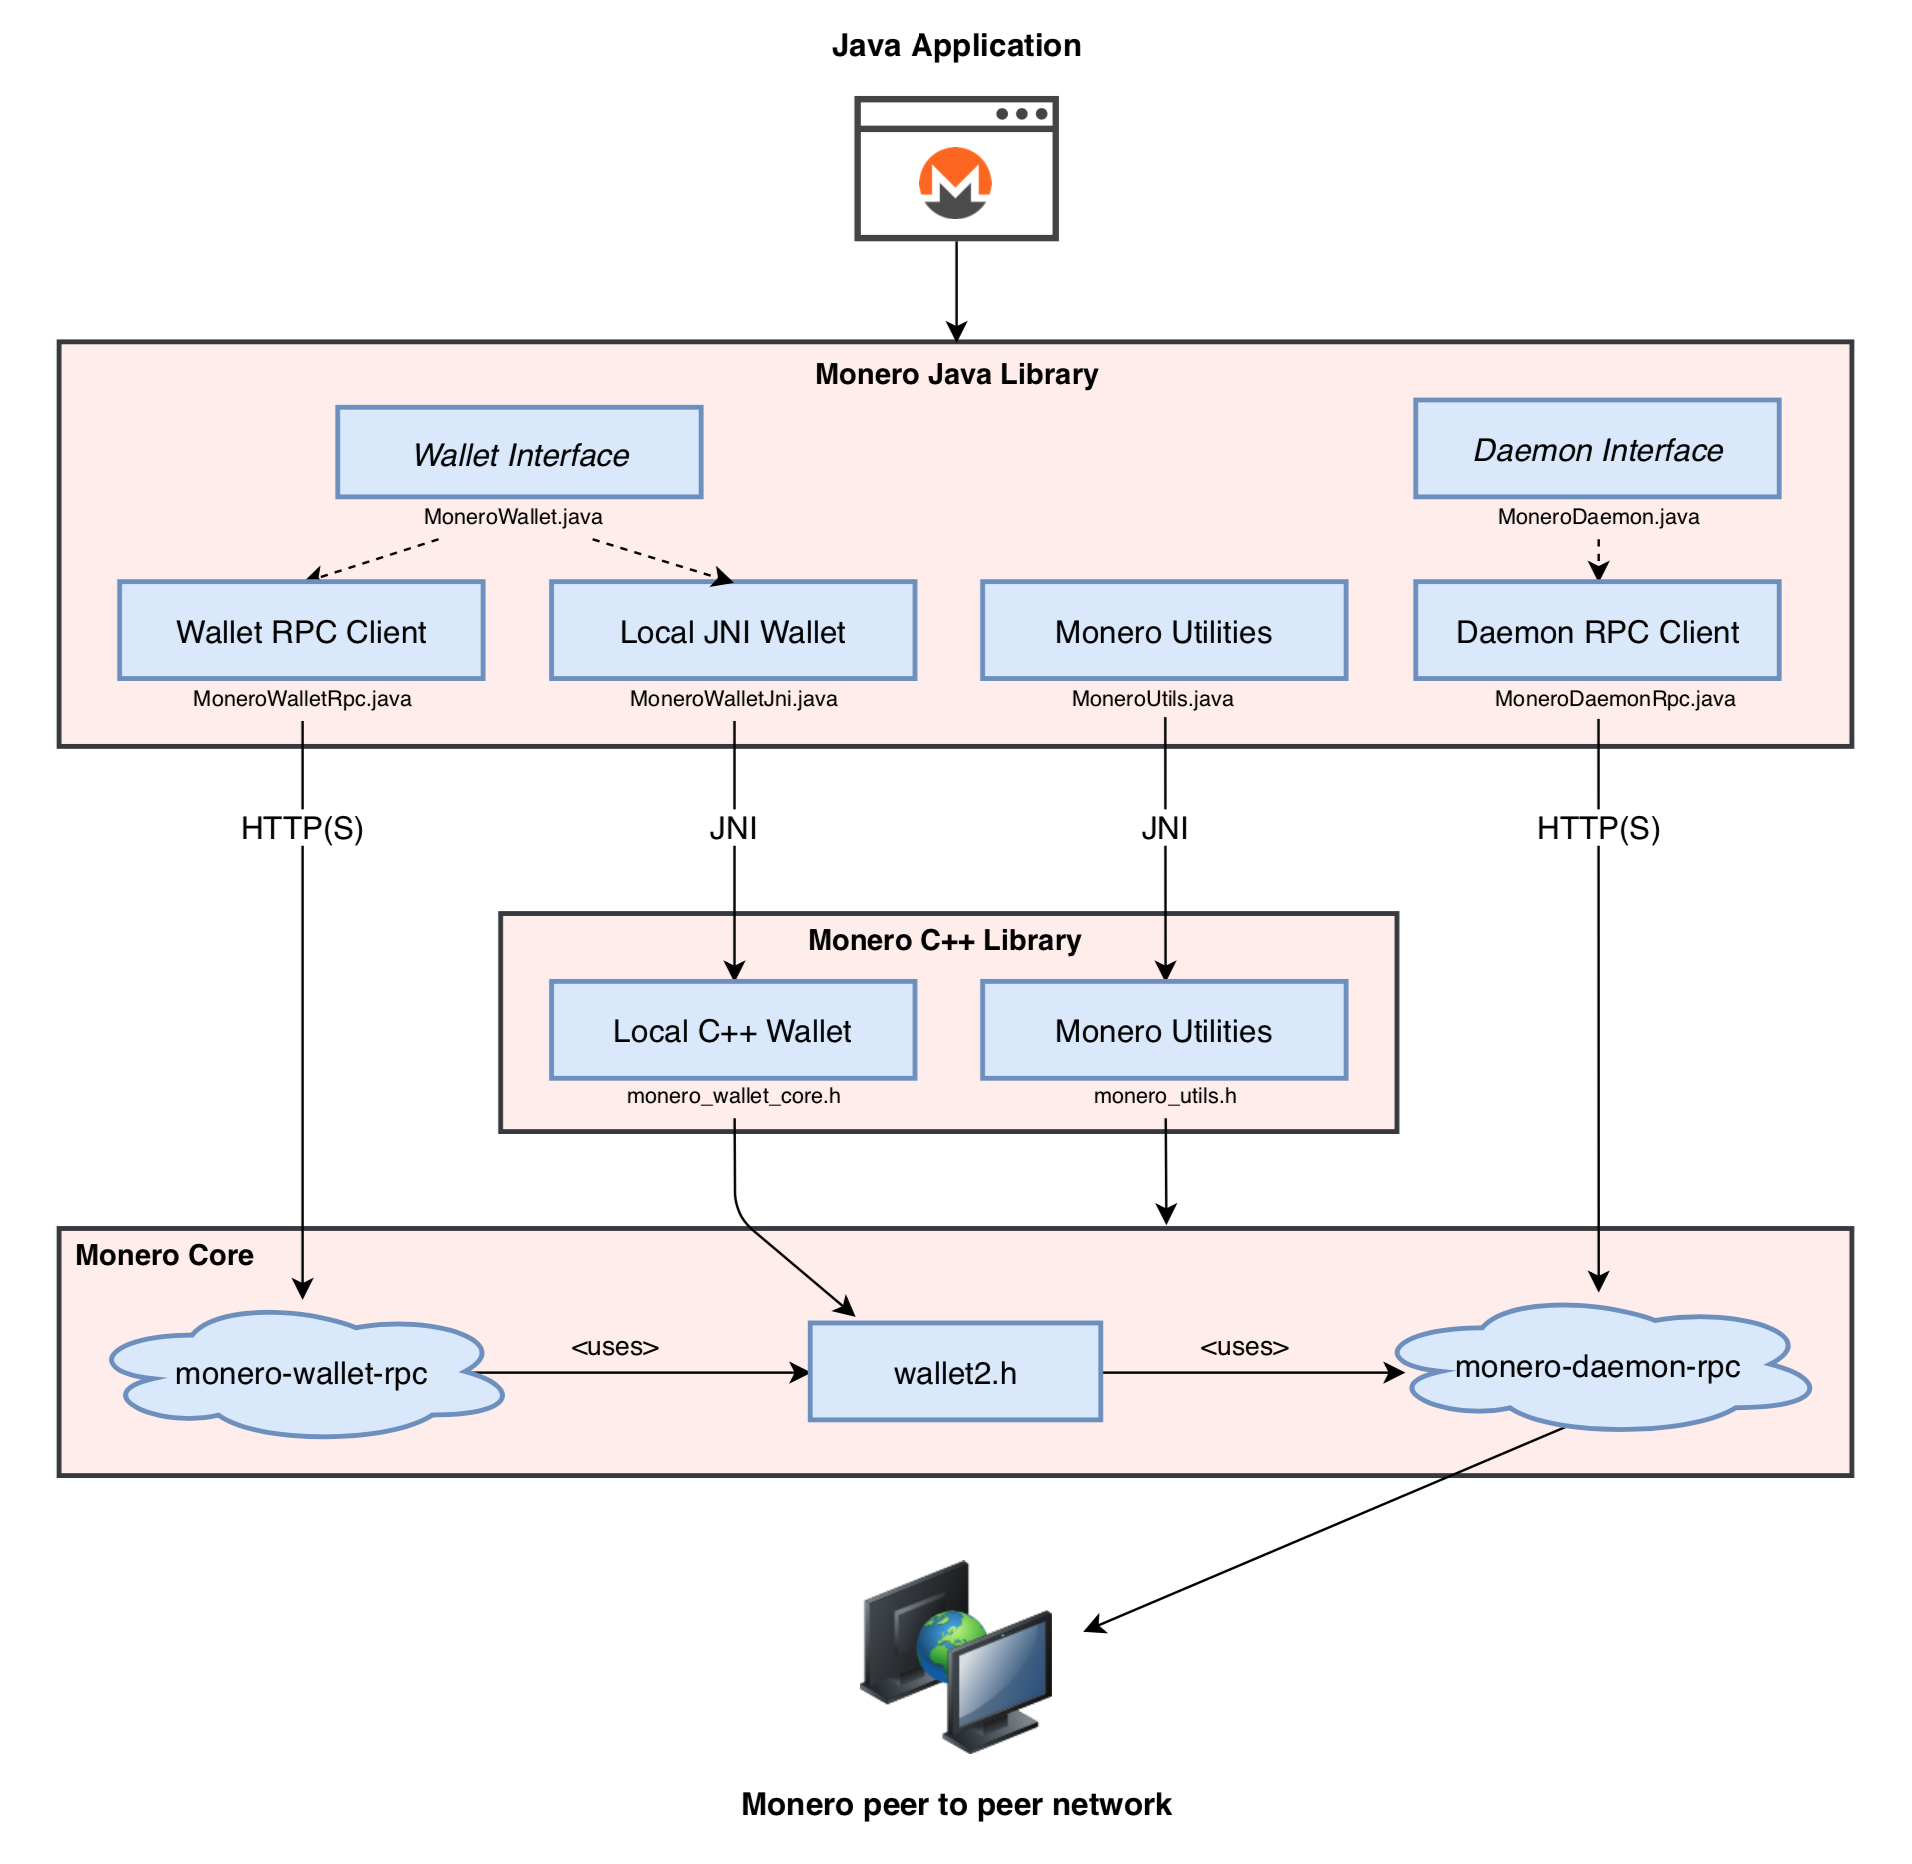
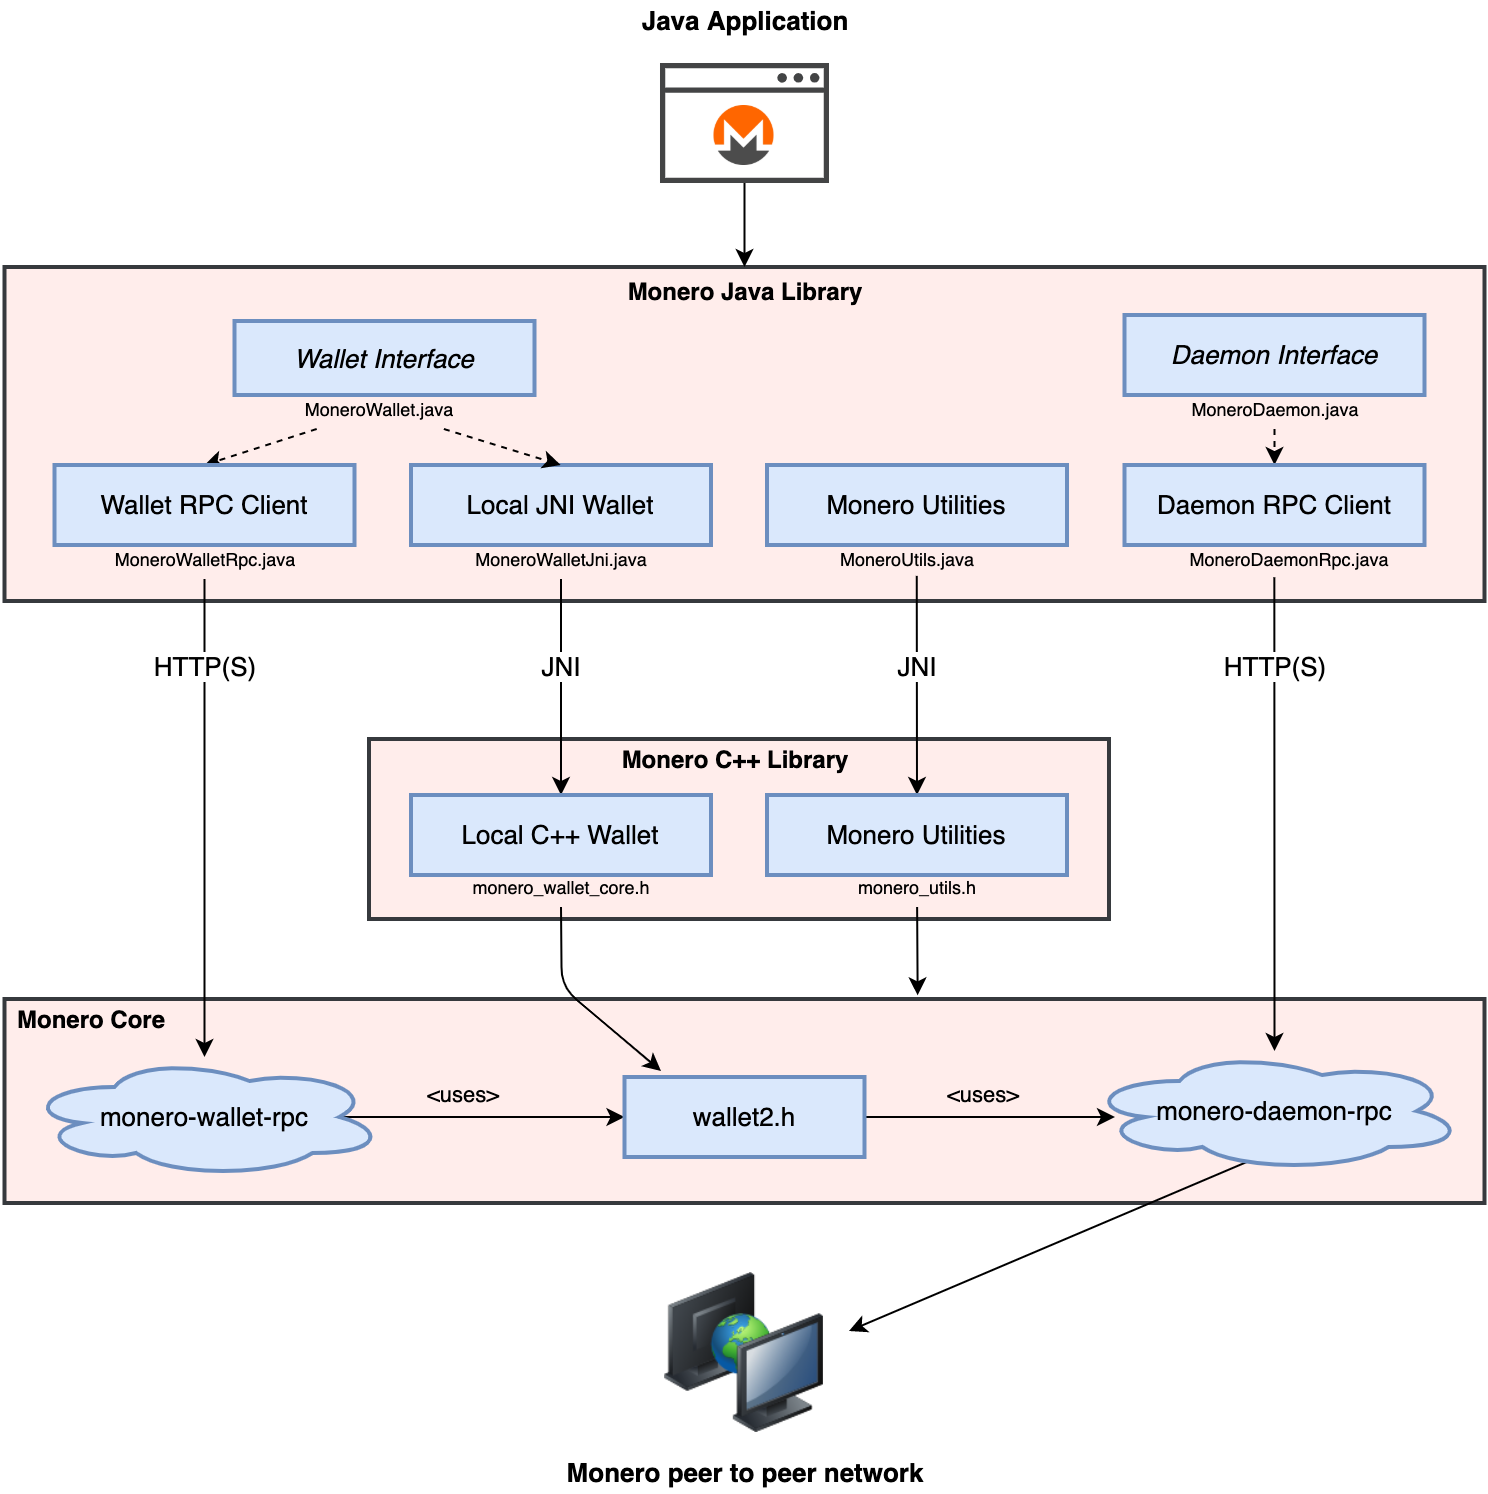
update readme, architecture

Changed region(s): [[0.0, 0.0, 1.0, 0.8621], [0.371, 0.8313, 0.6183, 1.0]]

diff --git a/README.md b/README.md
@@ -5,38 +5,38 @@
 * [Overview](#overview)
 * [Architecture](#architecture)
 * [Sample code](#sample-code)
-* [How to include this library in your project](#how-to-include-this-library-in-your-project)
+* [Using monero-java in your project](#using-monero-java-in-your-project)
 * [Developer guide](#developer-guide)
-* [How to build JNI shared library](#how-to-build-jni-shared-libraries)
-* [How to run Monero RPC](#how-to-run-monero-rpc)
-* [How to run JUnit tests](#how-to-run-junit-tests)
+* [Building JNI shared libraries from source](#building-jni-shared-libraries-from-source)
+* [Running JUnit tests](#running-junit-tests)
 * [See also](#see-also)
 * [License](#license)
 * [Donations](#donations)
 
 ## Overview
 
-This project is a Java library for using Monero via RPC and native bindings to [Monero Core v0.16.0.0 'Nitrogen Nebula'](https://web.getmonero.org/downloads/).
+This project is a Java library for creating Monero applications via RPC and native JNI bindings to [monero v0.16.0.0 'Nitrogen Nebula'](https://github.com/monero-project/monero/tree/v0.16.0.0).
 
-* Supports RPC bindings to monero-wallet-rpc and monero-daemon-rpc.
-* Supports client-side wallets using JNI bindings to Monero Core.
-* Supports multisig, view-only, and offline wallets.
-* Conforms to an [API specification](https://moneroecosystem.org/monero-java/monero-spec.pdf) intended to be intuitive and robust.
+* Supports wallet and daemon RPC clients.
+* Supports fully client-side wallets using native JNI bindings.
+* Uses a clearly defined [data model and API specification](https://moneroecosystem.org/monero-java/monero-spec.pdf) intended to be intuitive and robust.
+* Wallet implementations are interchangeable by conforming to a [common interface](https://moneroecosystem.org/monero-java/index.html?monero/wallet/MoneroWallet.html).
 * Query wallet transactions, transfers, and outputs by their many attributes.
 * Fetch and process binary data from the daemon (e.g. raw blocks).
-* Receive notifications when blocks are added to the chain or when wallets sync, send, and receive.
+* Receive notifications when blocks are added to the chain or when wallets sync, send, or receive.
 * Over 270 passing JUnit test cases.
 
 ## Architecture
 
 <p align="center">
-	<img width="90%" height="auto" src="docs/architecture.png"/><br>
+	<img width="80%" height="auto" src="docs/architecture.png"/><br>
 	<i>Wallet implementations use RPC or JNI bindings to Monero Core and are interchangeable by conforming to a common interface, <a href="https://moneroecosystem.org/monero-java/monero/wallet/MoneroWallet.html">MoneroWallet.java</a>.</i>
+	<i>Build Java applications using RPC or JNI bindings to <a href="https://github.com/monero-project/monero">monero-project/monero</a>.  Wallet implementations are interchangeable by conforming to a common interface, <a href="https://moneroecosystem.org/monero-java/index.html?monero/wallet/MoneroWallet.html">MoneroWallet.js</a>.</i>
 </p>
 
 ## Sample code
 
-This code demonstrates the API.  See the [Javadoc](https://moneroecosystem.org/monero-java/), [specification PDF](http://moneroecosystem.org/monero-java/monero-spec.pdf), or [JUnit tests](src/test/java) for more details.
+This code introduces the API used in monero-java.  See the [Javadoc](https://moneroecosystem.org/monero-java/), [specification PDF](http://moneroecosystem.org/monero-java/monero-spec.pdf), or [JUnit tests](src/test/java) for more detail.
 
 ```java
 // connect to a daemon
@@ -101,9 +101,9 @@ assertTrue(JNI_OUTPUT_RECEIVED);
 walletJni.close(true);
 ```
 
-## How to include this library in your project
+## Using monero-java in your project
 
-**For Maven, add to pom.xml:**
+### For Maven, add to pom.xml:
 
 ```xml
 <dependency>
@@ -113,19 +113,25 @@ walletJni.close(true);
 </dependency>
 ```
 
-**For Gradle, add to build.gradle:**
+### For Gradle, add to build.gradle:
 
 `compile 'io.github.monero-ecosystem:monero-java:0.2.1'`
 
-You are now ready to use this library with [monero-daemon-rpc](https://getmonero.org/resources/developer-guides/daemon-rpc.html) and [monero-wallet-rpc](https://getmonero.org/resources/developer-guides/wallet-rpc.html) endpoints.  If you wish to use native JNI bindings, first [build the JNI shared libraries](#how-to-build-jni-shared-libraries).
+You are now ready to use this library with [monero-daemon-rpc](https://getmonero.org/resources/developer-guides/daemon-rpc.html) and [monero-wallet-rpc](https://getmonero.org/resources/developer-guides/wallet-rpc.html) endpoints.  If you want to client-side wallets via native JNI bindings, first [build the JNI shared libraries](#building-jni-shared-libraries-from-source).
+
+### If using RPC servers:
+
+1. Download and install [Monero CLI](https://web.getmonero.org/downloads/).
+2. Start monero-daemon-rpc, e.g.: `./monerod --stagenet` (or use a remote daemon).
+3. Start monero-wallet-rpc, e.g.: `./monero-wallet-rpc --daemon-address http://localhost:38081 --stagenet --rpc-bind-port 38083 --rpc-login rpc_user:abc123 --wallet-dir ./`
 
 ## Developer guide
 
-Please refer to [monero-javascript's developer guide](https://github.com/monero-ecosystem/monero-javascript#developer-guide) which mostly translates to this Java library.
+Please refer to [monero-javascript's developer guide](https://github.com/monero-ecosystem/monero-javascript#developer-guide) which mostly translates to monero-java.
 
-## How to build JNI shared libraries
+## Building JNI shared libraries from source
 
-If you want to process binary data or use a Monero wallet using JNI instead of RPC, shared libraries must be built for your specific platform for this Java library to use.  This project uses a [C++ counterpart library](https://github.com/woodser/monero-cpp-library) to support JNI, which is included as a submodule in ./external/monero-cpp-library.
+If you want to process binary data or use a client-side wallet via JNI instead of RPC, shared libraries must be built for your specific platform for this Java library to use.  This project uses a [C++ counterpart library](https://github.com/woodser/monero-cpp-library) to support JNI, which is included as a submodule in ./external/monero-cpp-library.
 
 1. Clone the project repository: `git clone https://github.com/monero-ecosystem/monero-java.git`
 2. `cd monero-java`
@@ -137,31 +143,20 @@ If you want to process binary data or use a Monero wallet using JNI instead of R
 8. Run TestMoneroCppUtils.java JUnit tests to verify the shared libraries are working with Java JNI.
 9. Add the shared libraries within ./build/ to your application's classpath.
 
-## How to run Monero RPC
+## Running Junit tests
 
-1. Download and extract the latest [Monero CLI](https://getmonero.org/downloads/) for your platform.
-2. Start Monero daemon locally: `./monerod --stagenet` (or use a remote daemon).
-3. Create a wallet file if one does not exist.
-	- Create new / open existing: `./monero-wallet-cli --daemon-address http://localhost:38081 --stagenet`
-	- Restore from mnemonic seed: `./monero-wallet-cli --daemon-address http://localhost:38081 --stagenet --restore-deterministic-wallet`
-4. Start monero-wallet-rpc (requires --wallet-dir to run tests):
-	
-	e.g. For wallet name `test_wallet_1`, user `rpc_user`, password `abc123`, stagenet: `./monero-wallet-rpc --daemon-address http://localhost:38081 --stagenet --rpc-bind-port 38083 --rpc-login rpc_user:abc123 --wallet-dir ./`
-
-## How to run JUnit tests
-
-1. [Include](#how-to-include-this-library-in-your-project) this library with [JNI support](#how-to-build-jni-shared-libraries).
-2. Run monero-wallet-rpc and monero-daemon-rpc.  See [How to Run Monero RPC](#how-to-run-monero-rpc). 
-3. Configure the appropriate RPC endpoints, authentication, and test wallet in [TestUtils.java](src/test/java/utils/TestUtils.java).
+1. Clone monero-java repository: `git clone https://github.com/monero-ecosystem/monero-java.git`
+2. `cd monero-java`
+3. [Build JNI shared libraries from source.](#building-jni-shared-libraries-from-source)
+3. [Run monero-wallet-rpc and monero-daemon-rpc.](#if-using-rpc-servers)
+4. Configure the appropriate RPC endpoints, authentication, and test wallet in [TestUtils.java](src/test/java/utils/TestUtils.java).
 4. Run all *.java files in src/main/test as JUnits.
 
 ## See also
 
-[API specification](http://moneroecosystem.org/monero-java/monero-spec.pdf)
-
-[monero-javascript](https://github.com/monero-ecosystem/monero-javascript)
-
-[monero-cpp-library](https://github.com/woodser/monero-cpp-library)
+* [API specification](http://moneroecosystem.org/monero-java/monero-spec.pdf)
+* [monero-javascript](https://github.com/monero-ecosystem/monero-javascript)
+* [monero-cpp-library](https://github.com/woodser/monero-cpp-library)
 
 ## License
 
